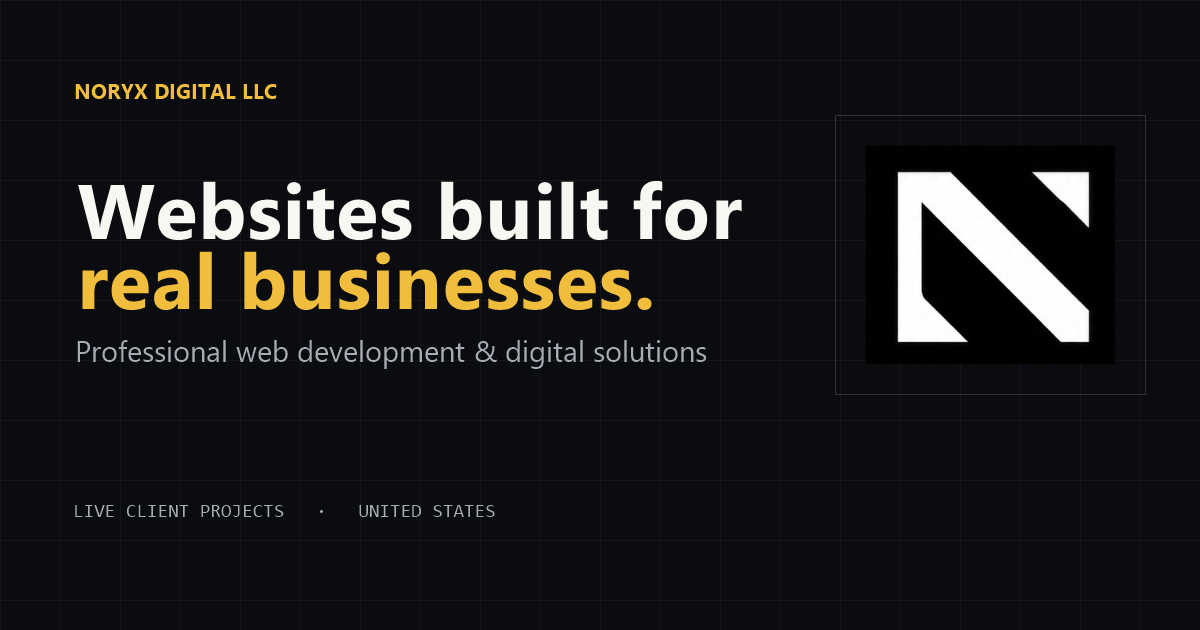
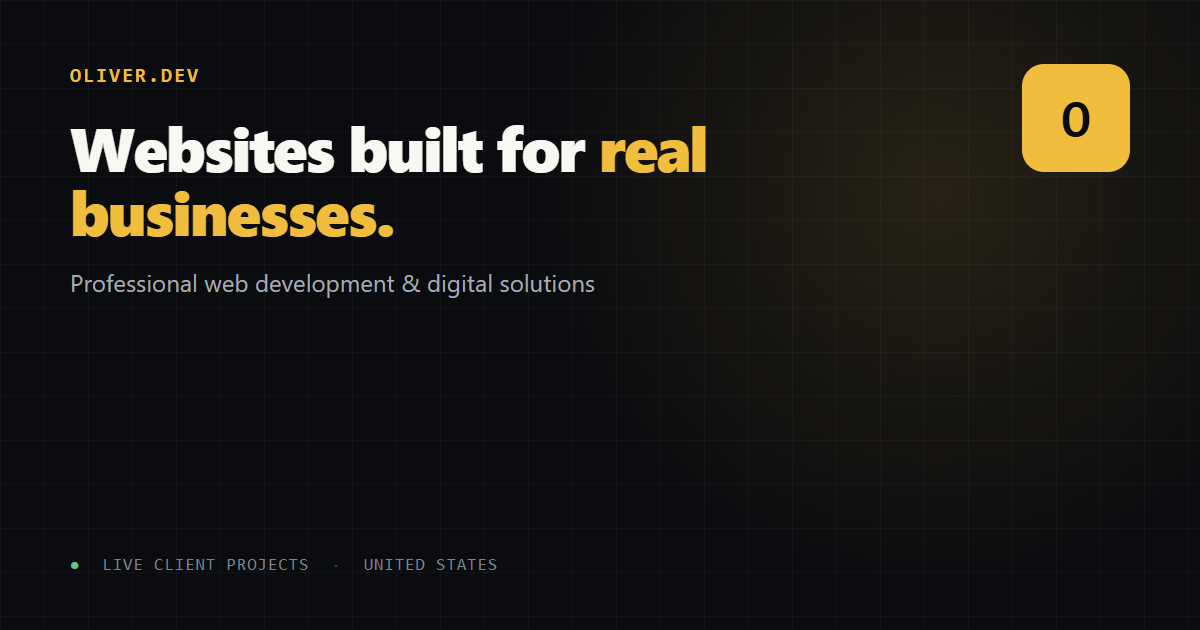
Reposition the portfolio as oliver.dev, upgrade hero 3D interaction
- Oliver.dev is now the primary brand across title, meta/OG tags,
  JSON-LD, header, footer, trust bar and contact card; Noryx Digital
  LLC is kept as a co-founder credential rather than the site identity.
- Replace the two unused Noryx logo PNGs (solid black background, no
  real transparency) with a lightweight CSS brand mark, removing the
  crop/blend issues they caused and the now-dead build dependency.
- Regenerate the OG share image to match the new branding.
- Rebuild the hero interaction: bigger mouse-driven tilt range, a
  cursor-tracked glare sheen on the browser mockup, a new depth layer
  (live project count chip) with independent parallax, a subtle idle
  float animation, and an oliver.dev brand card replacing the old
  logo image — all still gated behind prefers-reduced-motion.
- Project count in the hero is computed from projects.js at runtime
  instead of being hardcoded.

diff --git a/index.html b/index.html
@@ -5,27 +5,27 @@
   <meta name="viewport" content="width=device-width, initial-scale=1">
   <script>document.documentElement.className = 'js';</script>
 
-  <title>Noryx Digital LLC | Professional Web Development</title>
-  <meta name="description" content="Professional websites and landing pages for businesses. Explore live client projects developed through Noryx Digital LLC.">
-  <meta name="author" content="Noryx Digital LLC">
+  <title>Oliver.dev | Professional Web Developer</title>
+  <meta name="description" content="Oliver — Gabriel Oliveira — building professional websites and landing pages for real businesses. Co-founder of Noryx Digital LLC. Explore live client projects in production.">
+  <meta name="author" content="Gabriel Oliveira">
   <meta name="theme-color" content="#0d0f12">
   <meta name="color-scheme" content="dark light">
   <link rel="canonical" href="https://oliver.dev/">
 
   <meta property="og:type" content="website">
   <meta property="og:locale" content="en_US">
-  <meta property="og:site_name" content="Noryx Digital LLC">
-  <meta property="og:title" content="Noryx Digital LLC | Professional Web Development">
-  <meta property="og:description" content="Professional websites and landing pages for businesses, backed by live production work.">
+  <meta property="og:site_name" content="Oliver.dev">
+  <meta property="og:title" content="Oliver.dev | Professional Web Developer">
+  <meta property="og:description" content="Professional websites and landing pages for real businesses, backed by live production work.">
   <meta property="og:url" content="https://oliver.dev/">
   <meta property="og:image" content="https://oliver.dev/assets/og-cover.png">
   <meta property="og:image:width" content="1200">
   <meta property="og:image:height" content="630">
-  <meta property="og:image:alt" content="Noryx Digital LLC professional web development">
+  <meta property="og:image:alt" content="Oliver.dev — professional web development">
 
   <meta name="twitter:card" content="summary_large_image">
-  <meta name="twitter:title" content="Noryx Digital LLC | Professional Web Development">
-  <meta name="twitter:description" content="Professional websites and landing pages for businesses, backed by live production work.">
+  <meta name="twitter:title" content="Oliver.dev | Professional Web Developer">
+  <meta name="twitter:description" content="Professional websites and landing pages for real businesses, backed by live production work.">
   <meta name="twitter:image" content="https://oliver.dev/assets/og-cover.png">
 
   <link rel="icon" href="favicon.ico" sizes="any">
@@ -40,25 +40,26 @@
     "@context": "https://schema.org",
     "@graph": [
       {
-        "@type": "Organization",
-        "@id": "https://oliver.dev/#organization",
-        "name": "Noryx Digital LLC",
-        "url": "https://oliver.dev/",
-        "description": "Web development and digital solutions for businesses.",
-        "email": "oliveirabtq@gmail.com",
-        "areaServed": "United States",
-        "founders": [{ "@id": "https://oliver.dev/#gabriel" }]
-      },
-      {
         "@type": "Person",
         "@id": "https://oliver.dev/#gabriel",
         "name": "Gabriel Oliveira",
-        "jobTitle": "Co-Founder & Web Developer",
+        "alternateName": "Oliver",
+        "url": "https://oliver.dev/",
+        "jobTitle": "Web Developer",
+        "email": "oliveirabtq@gmail.com",
         "worksFor": { "@id": "https://oliver.dev/#organization" },
         "sameAs": [
           "https://www.linkedin.com/in/gabriel-oliveira-45056a324/",
           "https://www.instagram.com/euoliverg/"
         ]
+      },
+      {
+        "@type": "Organization",
+        "@id": "https://oliver.dev/#organization",
+        "name": "Noryx Digital LLC",
+        "description": "Web development and digital solutions for businesses.",
+        "areaServed": "United States",
+        "founders": [{ "@id": "https://oliver.dev/#gabriel" }]
       }
     ]
   }
@@ -69,9 +70,9 @@
 
   <header class="site-header" data-header>
     <div class="shell header-inner">
-      <a class="brand" href="#top" aria-label="Noryx Digital LLC, back to top">
-        <img src="assets/brand/noryx-mark.png" width="40" height="35" alt="">
-        <span><strong>Noryx Digital</strong><small>LLC</small></span>
+      <a class="brand" href="#top" aria-label="Oliver.dev, back to top">
+        <span class="brand-mark" aria-hidden="true">O</span>
+        <span><strong>oliver</strong><small>.dev</small></span>
       </a>
 
       <button class="nav-toggle" type="button" aria-expanded="false" aria-controls="primary-navigation" data-nav-toggle>
@@ -95,9 +96,9 @@
       <div class="shell hero-grid">
         <div class="hero-copy">
           <p class="eyebrow"><span class="status-dot" aria-hidden="true"></span> Web development · United States</p>
-          <p class="company-badge">Operating through Noryx Digital LLC</p>
+          <p class="company-badge">oliver.dev — co-founder, Noryx Digital LLC</p>
           <h1 id="hero-title">Websites built for <span>real businesses.</span></h1>
-          <p class="hero-summary">Professional websites and landing pages developed by Noryx Digital LLC for businesses that want a stronger digital presence and better opportunities to turn visitors into customers.</p>
+          <p class="hero-summary">I'm Oliver — professional websites and landing pages built for businesses that want a stronger digital presence and better opportunities to turn visitors into customers.</p>
 
           <div class="hero-actions">
             <a class="button button-primary" href="#work">View live projects <span aria-hidden="true">↓</span></a>
@@ -108,33 +109,38 @@
         </div>
 
         <div class="hero-proof" data-hero-proof aria-label="Live production project preview">
-          <div class="browser-frame">
-            <div class="browser-toolbar">
-              <span class="browser-dots" aria-hidden="true"><i></i><i></i><i></i></span>
-              <span>citywiderentalwa.com</span>
-              <span class="secure-label">Live</span>
+          <div class="hero-proof-inner">
+            <div class="browser-frame" data-hero-layer="near">
+              <div class="browser-toolbar">
+                <span class="browser-dots" aria-hidden="true"><i></i><i></i><i></i></span>
+                <span>citywiderentalwa.com</span>
+                <span class="secure-label">Live</span>
+              </div>
+              <img src="assets/projects/citywide-rental.png" width="1440" height="900" alt="City Wide Rental live production website" fetchpriority="high" decoding="async">
+              <span class="browser-glare" aria-hidden="true"></span>
             </div>
-            <img src="assets/projects/citywide-rental.png" width="1440" height="900" alt="City Wide Rental live production website" fetchpriority="high" decoding="async">
-          </div>
-          <div class="hero-proof-footer">
-            <div><span class="live-dot" aria-hidden="true"></span><p><strong>Live client project</strong>City Wide Rental · Washington</p></div>
-            <a href="https://citywiderentalwa.com/" target="_blank" rel="noopener noreferrer">Open website ↗</a>
-          </div>
-          <div class="hero-brand-card" aria-hidden="true">
-            <img src="assets/brand/noryx-logo.png" width="820" height="650" alt="">
+            <div class="hero-proof-footer">
+              <div><span class="live-dot" aria-hidden="true"></span><p><strong>Live client project</strong>City Wide Rental · Washington</p></div>
+              <a href="https://citywiderentalwa.com/" target="_blank" rel="noopener noreferrer">Open website ↗</a>
+            </div>
+            <div class="hero-stat-chip" data-hero-layer="mid" aria-hidden="true"><strong data-project-count>00</strong>Live projects shipped</div>
+            <div class="hero-brand-card" data-hero-layer="far" aria-hidden="true">
+              <span class="brand-mark brand-mark-lg">O</span>
+              <span>oliver<b>.dev</b></span>
+            </div>
           </div>
         </div>
       </div>
     </section>
 
-    <aside class="trust-bar" aria-label="Noryx business credentials">
+    <aside class="trust-bar" aria-label="Oliver.dev credentials">
       <div class="shell trust-grid">
-        <span><i aria-hidden="true"></i>Noryx Digital LLC</span>
-        <span><i aria-hidden="true"></i>US Registered Business</span>
         <span><i aria-hidden="true"></i>Live Client Projects</span>
         <span><i aria-hidden="true"></i>Business Websites</span>
         <span><i aria-hidden="true"></i>Landing Pages</span>
         <span><i aria-hidden="true"></i>Web Development</span>
+        <span><i aria-hidden="true"></i>Co-Founder, Noryx Digital LLC</span>
+        <span><i aria-hidden="true"></i>US Registered Business</span>
       </div>
     </aside>
 
@@ -256,8 +262,8 @@
           <h2 id="contact-title">Need a better website for your business?</h2>
           <p>Tell me about your company and what you're trying to improve. I can review your current digital presence and discuss the best direction for your website.</p>
           <div class="contact-identity">
-            <img src="assets/brand/noryx-mark.png" width="64" height="56" alt="">
-            <p><strong>Noryx Digital LLC</strong>Web Development &amp; Digital Solutions<br>United States</p>
+            <span class="brand-mark brand-mark-lg" aria-hidden="true">O</span>
+            <p><strong>Oliver.dev</strong>Web Development &amp; Digital Solutions<br>Co-founder, Noryx Digital LLC</p>
           </div>
           <a class="button button-secondary" href="#work">View my work <span aria-hidden="true">↑</span></a>
         </div>
@@ -296,13 +302,13 @@
   <footer class="site-footer">
     <div class="shell footer-main">
       <div class="footer-brand">
-        <a class="brand" href="#top"><img src="assets/brand/noryx-mark.png" width="40" height="35" alt=""><span><strong>Noryx Digital</strong><small>LLC</small></span></a>
-        <p>Web Development &amp; Digital Solutions<br>United States</p>
+        <a class="brand" href="#top"><span class="brand-mark" aria-hidden="true">O</span><span><strong>oliver</strong><small>.dev</small></span></a>
+        <p>Web Development &amp; Digital Solutions<br>Co-founder, Noryx Digital LLC</p>
       </div>
       <div><p class="footer-label">Navigation</p><nav aria-label="Footer navigation"><a href="#work">Work</a><a href="#services">Services</a><a href="#about">About</a><a href="#contact">Contact</a></nav></div>
       <div><p class="footer-label">Contact</p><nav aria-label="Contact links"><a href="mailto:oliveirabtq@gmail.com">Email</a><a href="https://www.linkedin.com/in/gabriel-oliveira-45056a324/" target="_blank" rel="noopener noreferrer">LinkedIn</a><a href="https://www.instagram.com/euoliverg/" target="_blank" rel="noopener noreferrer">Instagram</a><a href="https://oliver.dev/">oliver.dev</a></nav></div>
     </div>
-    <div class="shell footer-bottom"><p>© <span data-current-year>2026</span> Noryx Digital LLC. All rights reserved.</p><p>Live production work · Direct commercial contact</p></div>
+    <div class="shell footer-bottom"><p>© <span data-current-year>2026</span> Oliver.dev — Gabriel Oliveira. All rights reserved.</p><p>Live production work · Direct commercial contact</p></div>
   </footer>
 
   <dialog class="case-dialog" data-case-dialog aria-labelledby="case-title">

diff --git a/styles.css b/styles.css
@@ -92,10 +92,23 @@ button, a { -webkit-tap-highlight-color: transparent; }
   height: 100%;
 }
 .brand { display: inline-flex; align-items: center; gap: 10px; justify-self: start; }
-.brand img { width: 32px; height: 28px; object-fit: contain; mix-blend-mode: screen; }
 .brand > span { display: flex; align-items: baseline; gap: 7px; line-height: 1; }
 .brand strong { font-size: .86rem; letter-spacing: -.02em; }
 .brand small { color: var(--yellow); font-family: var(--mono); font-size: .5rem; letter-spacing: .08em; }
+.brand-mark {
+  display: inline-grid;
+  flex-shrink: 0;
+  place-items: center;
+  width: 28px;
+  height: 28px;
+  border-radius: 8px;
+  background: var(--yellow);
+  color: var(--ink);
+  font-family: var(--mono);
+  font-weight: 800;
+  font-size: .82rem;
+}
+.brand-mark-lg { width: 46px; height: 46px; border-radius: 11px; font-size: 1.2rem; }
 .primary-nav { display: flex; align-items: center; gap: 26px; }
 .primary-nav a, .header-cta {
   color: #c5c8ce;
@@ -225,7 +238,17 @@ button, a { -webkit-tap-highlight-color: transparent; }
 .button-secondary { border-color: var(--line-strong); background: rgba(255,255,255,.035); color: var(--white); }
 .button-secondary:hover { border-color: rgba(255,255,255,.3); background: rgba(255,255,255,.065); }
 .hero-note { margin: 26px 0 0; color: #7f848d; font-size: .56rem; }
-.hero-proof { position: relative; padding: 0 0 74px 38px; perspective: 1600px; }
+.hero-proof { position: relative; padding: 0 0 74px 38px; perspective: 1800px; }
+.hero-proof-inner {
+  position: relative;
+  transform-style: preserve-3d;
+  animation: hero-float 6.5s ease-in-out infinite;
+}
+.hero-proof:hover .hero-proof-inner, .hero-proof:focus-within .hero-proof-inner { animation-play-state: paused; }
+@keyframes hero-float {
+  0%, 100% { transform: translateY(0); }
+  50% { transform: translateY(-9px); }
+}
 .browser-frame {
   position: relative;
   z-index: 2;
@@ -233,11 +256,25 @@ button, a { -webkit-tap-highlight-color: transparent; }
   border: 1px solid rgba(255,255,255,.17);
   border-radius: 16px;
   background: #0e1014;
-  box-shadow: 0 34px 90px rgba(0,0,0,.5);
-  transform: rotate(1deg);
-  transition: transform 200ms ease-out;
+  box-shadow: 0 34px 90px rgba(0,0,0,.5), 0 14px 34px rgba(0,0,0,.35);
+  transform: rotate(1deg) translateZ(0);
+  transition: transform 260ms cubic-bezier(.2,.8,.2,1), box-shadow 260ms ease;
   will-change: transform;
 }
+.hero-proof:hover .browser-frame, .hero-proof:focus-within .browser-frame {
+  box-shadow: 0 46px 110px rgba(0,0,0,.58), 0 18px 40px rgba(0,0,0,.4);
+}
+.browser-glare {
+  position: absolute;
+  inset: 0;
+  z-index: 4;
+  pointer-events: none;
+  background: radial-gradient(420px circle at var(--gx, 50%) var(--gy, 20%), rgba(255,255,255,.16), transparent 60%);
+  mix-blend-mode: overlay;
+  opacity: 0;
+  transition: opacity 260ms ease;
+}
+.hero-proof:hover .browser-glare, .hero-proof:focus-within .browser-glare { opacity: 1; }
 .browser-toolbar {
   display: grid;
   grid-template-columns: 1fr auto 1fr;
@@ -279,17 +316,50 @@ button, a { -webkit-tap-highlight-color: transparent; }
   z-index: 1;
   right: -28px;
   bottom: 2px;
+  display: flex;
+  flex-direction: column;
+  align-items: center;
+  justify-content: center;
+  gap: 10px;
   width: 190px;
   height: 155px;
   overflow: hidden;
   border: 1px solid var(--line);
   border-radius: 14px;
-  background: #000;
-  transform: rotate(-4deg);
-  transition: transform 200ms ease-out;
+  background: linear-gradient(160deg, #171a20, #08090b);
+  transform: rotate(-4deg) translateZ(-60px);
+  transition: transform 260ms cubic-bezier(.2,.8,.2,1);
   will-change: transform;
 }
-.hero-brand-card img { width: 100%; height: 100%; object-fit: cover; mix-blend-mode: screen; }
+.hero-brand-card > span:last-child {
+  font-family: var(--mono);
+  font-size: .68rem;
+  font-weight: 700;
+  letter-spacing: -.01em;
+  color: #c7cad0;
+}
+.hero-brand-card b { font-weight: 700; color: var(--yellow); }
+.hero-stat-chip {
+  position: absolute;
+  z-index: 5;
+  top: -22px;
+  left: -20px;
+  display: flex;
+  align-items: center;
+  gap: 10px;
+  padding: 10px 14px;
+  border: 1px solid var(--line-strong);
+  border-radius: 12px;
+  background: rgba(23,26,32,.92);
+  box-shadow: 0 18px 40px rgba(0,0,0,.4);
+  backdrop-filter: blur(10px);
+  -webkit-backdrop-filter: blur(10px);
+  transform: translateZ(70px);
+  transition: transform 260ms cubic-bezier(.2,.8,.2,1);
+  will-change: transform;
+}
+.hero-stat-chip strong { font-size: 1.15rem; font-weight: 800; letter-spacing: -.02em; color: var(--yellow); }
+.hero-stat-chip { font-family: var(--mono); font-size: .53rem; letter-spacing: .02em; color: #b8bbc1; text-transform: uppercase; }
 
 .trust-bar { border-block: 1px solid var(--line); background: #13161b; }
 .trust-grid {
@@ -684,7 +754,12 @@ dialog::backdrop { background: rgba(0,0,0,.78); backdrop-filter: blur(7px); }
   .browser-toolbar > span:nth-child(2) { overflow: hidden; text-overflow: ellipsis; white-space: nowrap; text-align: center; }
   .hero-proof-footer { width: calc(100% - 18px); margin-left: 9px; }
   .hero-proof-footer a { display: none; }
-  .hero-brand-card { right: 8px; width: 125px; height: 100px; }
+  .hero-brand-card { right: 8px; width: 125px; height: 100px; gap: 6px; }
+  .hero-brand-card .brand-mark-lg { width: 34px; height: 34px; border-radius: 9px; font-size: .95rem; }
+  .hero-brand-card > span:last-child { font-size: .58rem; }
+  .hero-stat-chip { top: -16px; left: -12px; padding: 8px 11px; gap: 8px; }
+  .hero-stat-chip strong { font-size: 1rem; }
+  .hero-proof-inner { animation: none; }
   .trust-grid { grid-template-columns: repeat(2, 1fr); }
   .trust-grid span { white-space: normal; }
   .section { padding-block: 68px; }

diff --git a/main.js b/main.js
@@ -8,22 +8,44 @@ const caseDialog = document.querySelector('[data-case-dialog]');
 const proofDialog = document.querySelector('[data-proof-dialog]');
 const heroProof = document.querySelector('[data-hero-proof]');
 const heroFrame = document.querySelector('.browser-frame');
+const heroGlare = document.querySelector('.browser-glare');
 const heroBrandCard = document.querySelector('.hero-brand-card');
+const heroStatChip = document.querySelector('.hero-stat-chip');
 const reduceMotion = window.matchMedia('(prefers-reduced-motion: reduce)').matches;
 
+document.querySelectorAll('[data-project-count]').forEach((el) => {
+  el.textContent = String(projects.length).padStart(2, '0');
+});
+
 if (heroProof && heroFrame && !reduceMotion) {
+  let rafId = null;
+
   heroProof.addEventListener('mousemove', (event) => {
     const rect = heroProof.getBoundingClientRect();
     const x = (event.clientX - rect.left) / rect.width - 0.5;
     const y = (event.clientY - rect.top) / rect.height - 0.5;
-    heroFrame.style.transform = `rotate(1deg) rotateX(${(-y * 9).toFixed(2)}deg) rotateY(${(x * 12).toFixed(2)}deg) translateZ(20px)`;
-    if (heroBrandCard) {
-      heroBrandCard.style.transform = `rotate(-4deg) translate(${(x * 10).toFixed(1)}px, ${(y * 8).toFixed(1)}px) translateZ(-30px)`;
-    }
+
+    if (rafId) cancelAnimationFrame(rafId);
+    rafId = requestAnimationFrame(() => {
+      heroFrame.style.transform = `rotate(1deg) rotateX(${(-y * 16).toFixed(2)}deg) rotateY(${(x * 22).toFixed(2)}deg) translateZ(50px)`;
+      if (heroGlare) {
+        heroGlare.style.setProperty('--gx', `${((x + 0.5) * 100).toFixed(1)}%`);
+        heroGlare.style.setProperty('--gy', `${((y + 0.5) * 100).toFixed(1)}%`);
+      }
+      if (heroBrandCard) {
+        heroBrandCard.style.transform = `rotate(-4deg) rotateX(${(-y * 10).toFixed(2)}deg) rotateY(${(x * 14).toFixed(2)}deg) translate(${(x * 14).toFixed(1)}px, ${(y * 10).toFixed(1)}px) translateZ(-70px)`;
+      }
+      if (heroStatChip) {
+        heroStatChip.style.transform = `translate(${(x * -12).toFixed(1)}px, ${(y * -10).toFixed(1)}px) translateZ(90px)`;
+      }
+    });
   });
+
   heroProof.addEventListener('mouseleave', () => {
+    if (rafId) cancelAnimationFrame(rafId);
     heroFrame.style.transform = '';
     if (heroBrandCard) heroBrandCard.style.transform = '';
+    if (heroStatChip) heroStatChip.style.transform = '';
   });
 }
 
